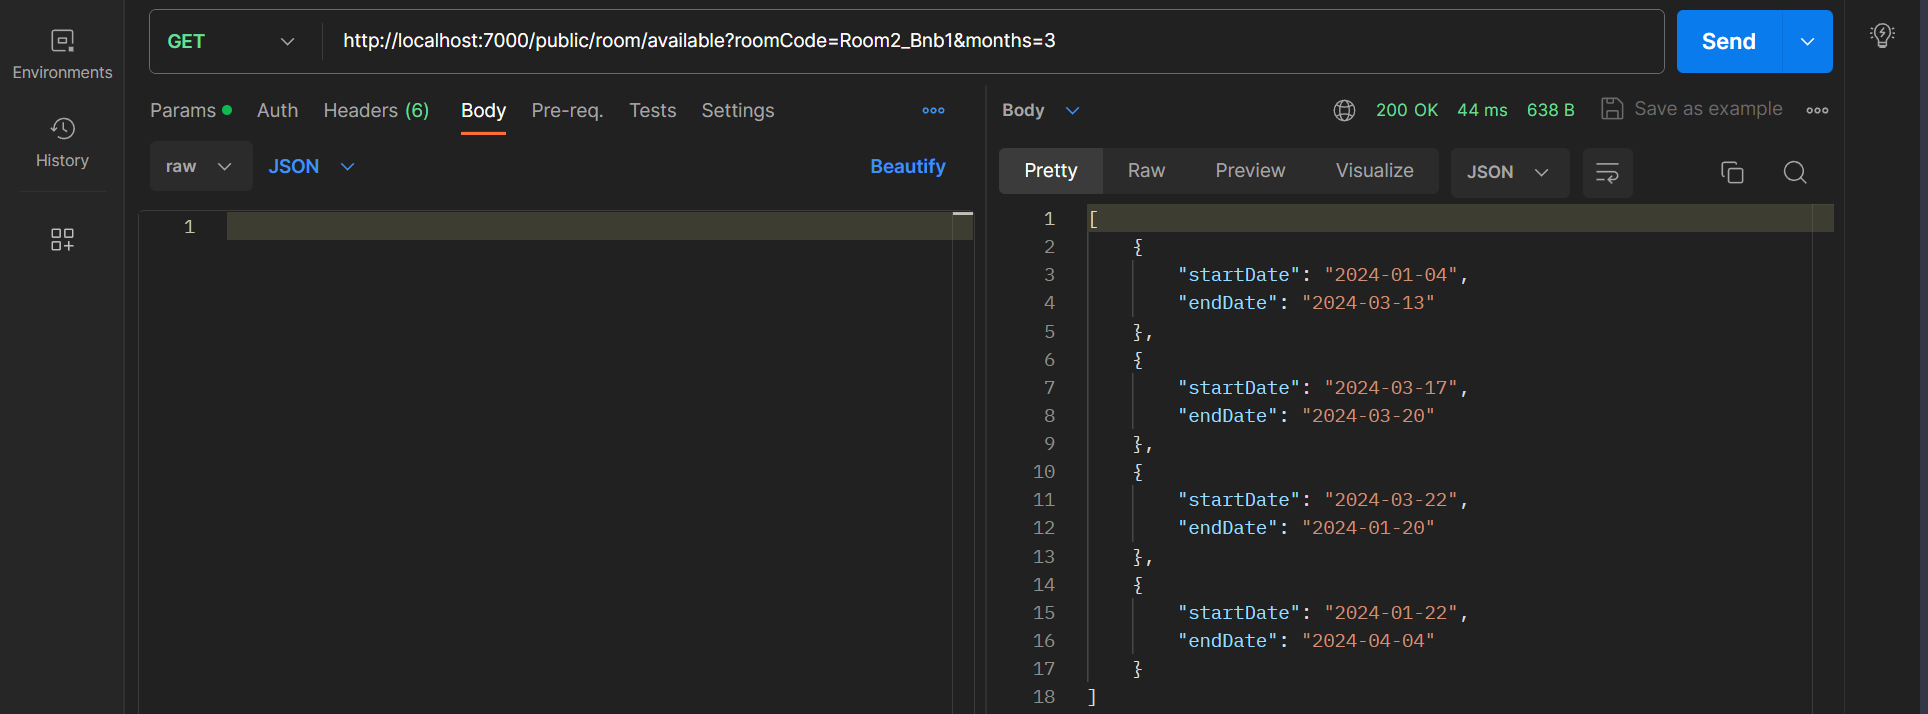
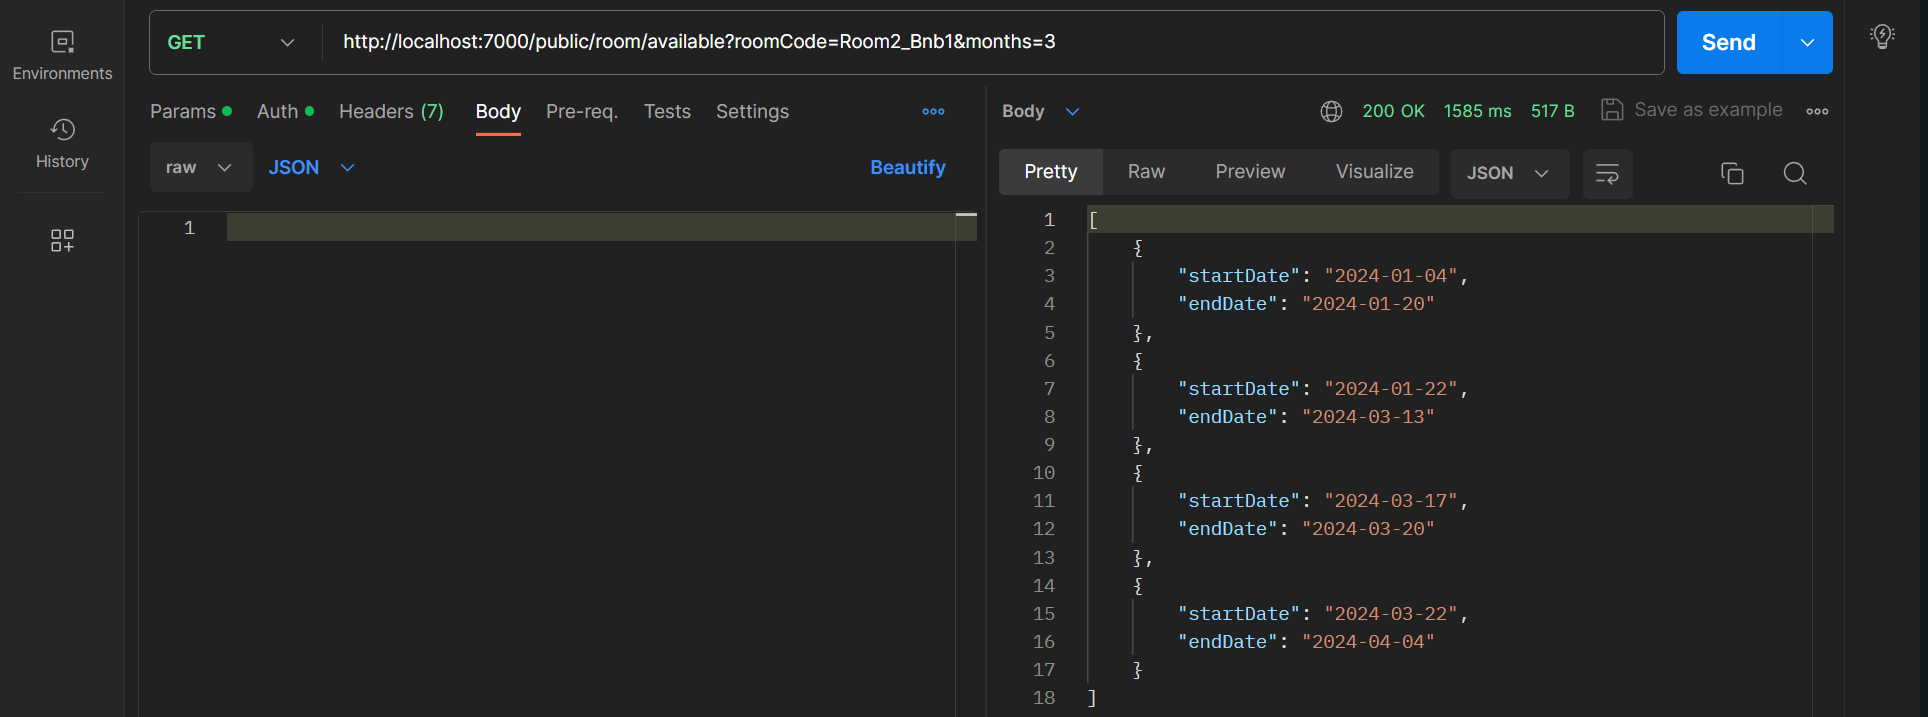
fixed readme and added screenshots to endpoints

diff --git a/README.md b/README.md
@@ -37,33 +37,33 @@ In this diagram you can see an overview of our microservices architecture
 ### Endpoints:
 
 <<<<<<< HEAD
-| HTTP <br> method | Endpoint                                  |   Service   | Description                                                                                      |            Authorized            | Parameters/Body                      |
-|------------------|-------------------------------------------|:-----------:|--------------------------------------------------------------------------------------------------|:--------------------------------:|--------------------------------------|
-| GET              | /public/bnb?name=                         |     Bnb     | Retrieve all bnb's that have the given parameter in their name                                   | <font color="#ff1a1a">No</font>  | `name`                               |
-| GET              | /public/rooms/available?id=               |     Bnb     | Retrieve all rooms from given `bnbId` depending on the given filters (see endpoints_examples.md) | <font color="#ff1a1a">No</font>  | `bnbId` <br> `AvailableRoomRequest`  |
-| GET              | /bnb/all?name=                            |     Bnb     | Same as /public/bnb?name=                                                                        | <font color="#47d147">Yes</font> | `name`                               |
-| GET              | /bnb/{id}                                 |     Bnb     | Retrieve one  bnb with given `id`                                                                | <font color="#47d147">Yes</font> |                                      |
-| POST             | /bnb                                      |     Bnb     | Create a new bnb                                                                                 | <font color="#47d147">Yes</font> | `BnbRequest`                         |
-| PUT              | /bnb/{id}                                 |     Bnb     | Update the bnb with given `id`                                                                   | <font color="#47d147">Yes</font> | `BnbRequest`                         |
-| DELETE           | /bnb/{id}                                 |     Bnb     | Delete the bnb with given `id`                                                                   | <font color="#47d147">Yes</font> | `BnbRequest`                         |
-| PUT              | /bnb/addRoom?bnbId= &roomCode=            |     Bnb     | Add a new room with `roomCode` to bnb with given `bnbId`                                         | <font color="#47d147">Yes</font> | `bnbId` <br> `roomCode`              |
-| PUT              | /bnb/removeRoom?bnbId= &roomCode=         |     Bnb     | Remove the room with `roomCode` from bnb with given `bnbId`                                      | <font color="#47d147">Yes</font> | `bnbId` <br> `roomCode`              |
-| GET              | /public/room/available?roomCode= &months= |    Room     | Retrieve all periods during which a given room is available                                      | <font color="#ff1a1a">No</font>  | `roomCode` <br> `months` (default=1) |
-| GET              | /room/all                                 |    Room     | Retrieve all rooms                                                                               | <font color="#47d147">Yes</font> |                                      |
-| GET              | /room/{id}                                |    Room     | Retrieve one room with given `id`                                                                | <font color="#47d147">Yes</font> |                                      |
-| POST             | /room                                     |    Room     | Create a new room, also add the room to the bnb with `bnbId` given in the request body           | <font color="#47d147">Yes</font> | `RoomWithBnbRequest`                 |
-| PUT              | /room/{id}                                |    Room     | Update the room with given `id`                                                                  | <font color="#47d147">Yes</font> | `RoomRequest`                        |
-| DELETE           | /room/{id}?bnbId=                         |    Room     | Delete the room with given `id`, also remove it from given `bnbId`                               | <font color="#47d147">Yes</font> | `bnbId`                              |
-| GET              | /reservation/all                          | Reservation | Retrieve all reservations                                                                        | <font color="#47d147">Yes</font> |                                      |
-| GET              | /reservation/{id}                         | Reservation | Retrieve one reservation with given `id`                                                         | <font color="#47d147">Yes</font> |                                      |
-| POST             | /reservation                              | Reservation | Create a new reservation                                                                         | <font color="#47d147">Yes</font> | `ReservationRequest`                 |
-| PUT              | /reservation/{id}                         | Reservation | Update the reservation with given `id`                                                           | <font color="#47d147">Yes</font> | `ReservationRequest`                 |
-| DELETE           | /reservation/{id}                         | Reservation | Delete the reservation with given `id`                                                           | <font color="#47d147">Yes</font> |                                      |
-| GET              | /person/all                               |   Person    | Retrieve all persons                                                                             | <font color="#47d147">Yes</font> |                                      |
-| GET              | /person/{id}                              |   Person    | Retrieve one person with given `id`                                                              | <font color="#47d147">Yes</font> |                                      |
-| POST             | /person                                   |   Person    | Create a new person                                                                              | <font color="#47d147">Yes</font> | `PersonRequest`                      |
-| PUT              | /person/{id}                              |   Person    | Update the person with given `id`                                                                | <font color="#47d147">Yes</font> | `PersonRequest`                      |
-| DELETE           | /person/{id}                              |   Person    | Delete the person with given `id`                                                                | <font color="#47d147">Yes</font> |                                      |
+| HTTP <br> method | Endpoint                                  |   Service   | Description                                                                                      |               Authorized                | Parameters/Body                      |
+|------------------|-------------------------------------------|:-----------:|--------------------------------------------------------------------------------------------------|:---------------------------------------:|--------------------------------------|
+| GET              | /public/bnb?name=                         |     Bnb     | Retrieve all bnb's that have the given parameter in their name                                   | <span style="color: #ff1a1a">No</span>  | `name`                               |
+| GET              | /public/rooms/available?id=               |     Bnb     | Retrieve all rooms from given `bnbId` depending on the given filters (see endpoints_examples.md) | <span style="color: #ff1a1a">No</span>  | `bnbId` <br> `AvailableRoomRequest`  |
+| GET              | /bnb/all?name=                            |     Bnb     | Same as /public/bnb?name=                                                                        | <span style="color: #47d147">Yes</span> | `name`                               |
+| GET              | /bnb/{id}                                 |     Bnb     | Retrieve one  bnb with given `id`                                                                | <span style="color: #47d147">Yes</span> |                                      |
+| POST             | /bnb                                      |     Bnb     | Create a new bnb                                                                                 | <span style="color: #47d147">Yes</span> | `BnbRequest`                         |
+| PUT              | /bnb/{id}                                 |     Bnb     | Update the bnb with given `id`                                                                   | <span style="color: #47d147">Yes</span> | `BnbRequest`                         |
+| DELETE           | /bnb/{id}                                 |     Bnb     | Delete the bnb with given `id`                                                                   | <span style="color: #47d147">Yes</span> | `BnbRequest`                         |
+| PUT              | /bnb/addRoom?bnbId= &roomCode=            |     Bnb     | Add a new room with `roomCode` to bnb with given `bnbId`                                         | <span style="color: #47d147">Yes</span> | `bnbId` <br> `roomCode`              |
+| PUT              | /bnb/removeRoom?bnbId= &roomCode=         |     Bnb     | Remove the room with `roomCode` from bnb with given `bnbId`                                      | <span style="color: #47d147">Yes</span> | `bnbId` <br> `roomCode`              |
+| GET              | /public/room/available?roomCode= &months= |    Room     | Retrieve all periods during which a given room is available                                      | <span style="color: #ff1a1a">No</span>  | `roomCode` <br> `months` (default=1) |
+| GET              | /room/all                                 |    Room     | Retrieve all rooms                                                                               | <span style="color: #47d147">Yes</span> |                                      |
+| GET              | /room/{id}                                |    Room     | Retrieve one room with given `id`                                                                | <span style="color: #47d147">Yes</span> |                                      |
+| POST             | /room                                     |    Room     | Create a new room, also add the room to the bnb with `bnbId` given in the request body           | <span style="color: #47d147">Yes</span> | `RoomWithBnbRequest`                 |
+| PUT              | /room/{id}                                |    Room     | Update the room with given `id`                                                                  | <span style="color: #47d147">Yes</span> | `RoomRequest`                        |
+| DELETE           | /room/{id}?bnbId=                         |    Room     | Delete the room with given `id`, also remove it from given `bnbId`                               | <span style="color: #47d147">Yes</span> | `bnbId`                              |
+| GET              | /reservation/all                          | Reservation | Retrieve all reservations                                                                        | <span style="color: #47d147">Yes</span> |                                      |
+| GET              | /reservation/{id}                         | Reservation | Retrieve one reservation with given `id`                                                         | <span style="color: #47d147">Yes</span> |                                      |
+| POST             | /reservation                              | Reservation | Create a new reservation                                                                         | <span style="color: #47d147">Yes</span> | `ReservationRequest`                 |
+| PUT              | /reservation/{id}                         | Reservation | Update the reservation with given `id`                                                           | <span style="color: #47d147">Yes</span> | `ReservationRequest`                 |
+| DELETE           | /reservation/{id}                         | Reservation | Delete the reservation with given `id`                                                           | <span style="color: #47d147">Yes</span> |                                      |
+| GET              | /person/all                               |   Person    | Retrieve all persons                                                                             | <span style="color: #47d147">Yes</span> |                                      |
+| GET              | /person/{id}                              |   Person    | Retrieve one person with given `id`                                                              | <span style="color: #47d147">Yes</span> |                                      |
+| POST             | /person                                   |   Person    | Create a new person                                                                              | <span style="color: #47d147">Yes</span> | `PersonRequest`                      |
+| PUT              | /person/{id}                              |   Person    | Update the person with given `id`                                                                | <span style="color: #47d147">Yes</span> | `PersonRequest`                      |
+| DELETE           | /person/{id}                              |   Person    | Delete the person with given `id`                                                                | <span style="color: #47d147">Yes</span> |                                      |
 
 
 For more info about our endpoints please view the file [endpoint_examples.md](endpoint_examples.md)

diff --git a/endpoint_examples.md b/endpoint_examples.md
@@ -95,25 +95,37 @@ Example results:
 
 When no value is given for `months`, the value 1 will be used. This means that it will check on what days the given room is available.
 
-Here you can see that `Room2_Bnb1` has one reservation from January 21st until January
+Here you can see that `Room2_Bnb1` has one reservation from January 20th until January 22nd:
 
 ![Response for the next month](./Ω-postman_screenshots/public_room_availableperiods/months1.png)
 
+In the following example the application will check for the next 3 months. Here you can see that there are multiple reservations for `Room2_Bnb1` planned during the next 3 months:
+
 ![Response for the next 3 months](./Ω-postman_screenshots/public_room_availableperiods/months3.png)
 
-As you can see in this result the room is available for 3 periods. This means that there are 2 reservations planned for this room (the gaps between the available periods that are returned).
+As you can see in this result the room is available for 4 seperate periods. This means that there are 3 reservations planned for this room (the gaps between the available periods that are returned).
 
 
 
 # <br>Authenticated Endpoints
+
+
 
 ## Bnb
 
 ### 1. GET /bnb/all
 Returns all bnbs, this  method also has the option to add `?name=<name>` to the url to filter on name. Take a look at /public/bnb at the top of this file for more info.
 
+Example request:
+
+![Response to get all](./Ω-postman_screenshots/1_bnb/get_all.png)
+
 ### 2. GET /bnb/\<id\>
 Returns a single bnb that has the given `id`.
+
+Example request:
+
+![Response to get with id](./Ω-postman_screenshots/1_bnb/get_id.png)
 
 ### 3. POST /bnb
 Create a new bnb.
@@ -133,10 +145,14 @@ Required body:
 }
 ```
 
+Example request:
+
+![Response for post](./Ω-postman_screenshots/1_bnb/post.png)
+
 ### 4. PUT /bnb/\<id\>
 You add the `id` of the bnb you want to edit to the url.
 
-Besides an `id` in the url, this request also needs a body with data for the updated bnb, all fields that are not explicitly assigned a value will be ignored. In the following example only `name` will be updated:
+Besides an `id` in the url, this request also needs a body with data for the updated bnb, all fields that are not explicitly assigned a value will be ignored. In the following request body example only `name` will be updated:
 ```json
 {
     "name": "Only name will be changed",
@@ -146,8 +162,16 @@ Besides an `id` in the url, this request also needs a body with data for the upd
 }
 ```
 
+Example request:
+
+![Response for put](./Ω-postman_screenshots/1_bnb/put.png)
+
 ### 5. DELETE /bnb/\<id\>
 Delete the bnb that corresponds to the given `id`.
+
+Example request:
+
+![Response for delete](./Ω-postman_screenshots/1_bnb/delete.png)
 
 
 
@@ -156,8 +180,16 @@ Delete the bnb that corresponds to the given `id`.
 ### 1. GET /room/all
 Returns all rooms.
 
+Example request:
+
+![Response for get with id](./Ω-postman_screenshots/2_room/get_all.png)
+
 ### 2. GET /room/\<id\>
 Returns a single room that has the given `id`.
+
+Example request:
+
+![Response to get all](./Ω-postman_screenshots/2_room/get_id.png)
 
 ### 3. POST /room
 Create a new room.
@@ -174,6 +206,14 @@ Required body:
 }
 ```
 
+Example request:
+
+![Response for post](./Ω-postman_screenshots/2_room/post.png)
+
+This request also adds the `roomCode` of the newly created room to the bnb with given `bnbId`. Here you see how it happend when previous request was executed:
+
+![Result in bnb](./Ω-postman_screenshots/2_room/post_proof.png)
+
 ### 4. PUT /room/\<id\>
 You have to add the `id` of the room you want to edit to the url.
 
@@ -186,8 +226,20 @@ Besides an `id` in the url, this request also needs a body with data for the upd
 }
 ```
 
-### 5. DELETE /room/\<id\>
-Delete the room that corresponds to the given `id`.
+Example request:
+
+![Response for put](./Ω-postman_screenshots/2_room/put.png)
+
+### 5. DELETE /room/\<id\>?bnbId=\<bnbId\>
+Delete the room that corresponds to the given `id`, also remove its `roomCode` from the bnb with given `bnbId`.
+
+Example request:
+
+![Response for delete](./Ω-postman_screenshots/2_room/delete.png)
+
+Just like with our POST request, this request automatically removes the `roomCode` of the deleted room in the bnb with given `bnbId`. Here is how it happend when previous request was executed:
+
+![Result in bnb](./Ω-postman_screenshots/2_room/delete_proof.png)
 
 
 
@@ -196,8 +248,16 @@ Delete the room that corresponds to the given `id`.
 ### 1. GET /reservation/all
 Returns all reservations.
 
+Example request:
+
+![Response for get all](./Ω-postman_screenshots/3_reservation/get_all.png)
+
 ### 2. GET /reservation/\<id\>
 Returns a single reservation that has the given `id`.
+
+Example request:
+
+![Response for get with id](./Ω-postman_screenshots/3_reservation/get_id.png)
 
 ### 3. POST /reservation
 Create a new reservation.
@@ -212,6 +272,10 @@ Required body:
 }
 ```
 
+Example request:
+
+![Response for post](./Ω-postman_screenshots/3_reservation/post.png)
+
 ### 4. PUT /reservation/\<id\>
 You have to add the `id` of the reservation you want to edit to the url.
 
@@ -225,8 +289,16 @@ Besides an `id` in the url, this request also needs a body with data for the upd
 }
 ```
 
+Example request:
+
+![Response for put](./Ω-postman_screenshots/3_reservation/put.png)
+
 ### 5. DELETE /reservation/\<id\>
 Delete the reservation that corresponds to the given `id`.
+
+Example request:
+
+![Response for delete](./Ω-postman_screenshots/3_reservation/delete.png)
 
 
 
@@ -235,8 +307,16 @@ Delete the reservation that corresponds to the given `id`.
 ### 1. GET /person/all
 Returns all persons.
 
+Example request:
+
+![Response for get all](./Ω-postman_screenshots/4_person/get_all.png)
+
 ### 2. GET /person/\<id\>
 Returns a single person that has the given `id`.
+
+Example request:
+
+![Response for get by id](./Ω-postman_screenshots/4_person/get_id.png)
 
 ### 3. POST /person
 Create a new person.
@@ -256,6 +336,10 @@ Required body:
 }
 ```
 
+Example request:
+
+![Response for post](./Ω-postman_screenshots/4_person/post.png)
+
 ### 4. PUT /person/\<id\>
 You have to add the `id` of the person you want to edit to the url.
 
@@ -274,5 +358,13 @@ Besides an `id` in the url, this request also needs a body with data for the upd
 }
 ```
 
+Example request:
+
+![Response for put](./Ω-postman_screenshots/4_person/put.png)
+
 ### 5. DELETE /person/\<id\>
 Delete the person that corresponds to the given `id`.
+
+Example request:
+
+![Response for delete](./Ω-postman_screenshots/4_person/delete.png)
